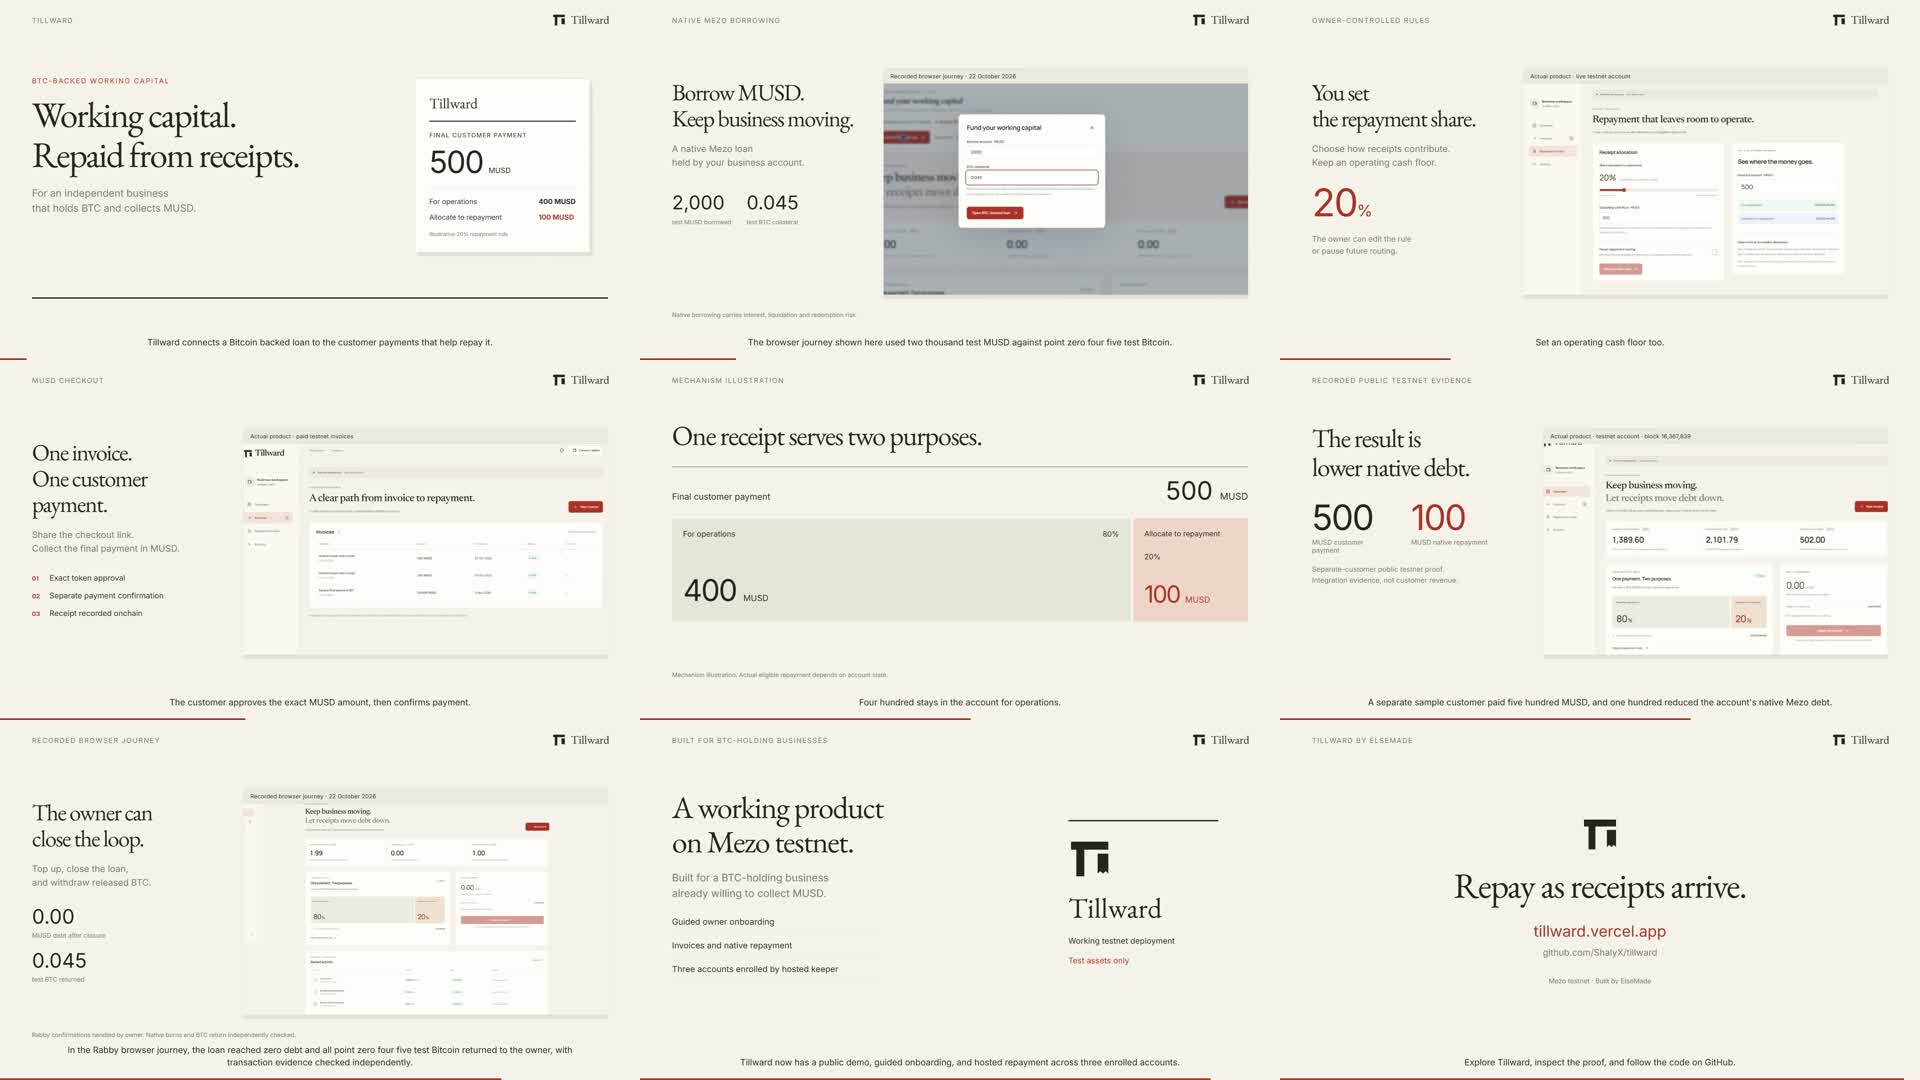
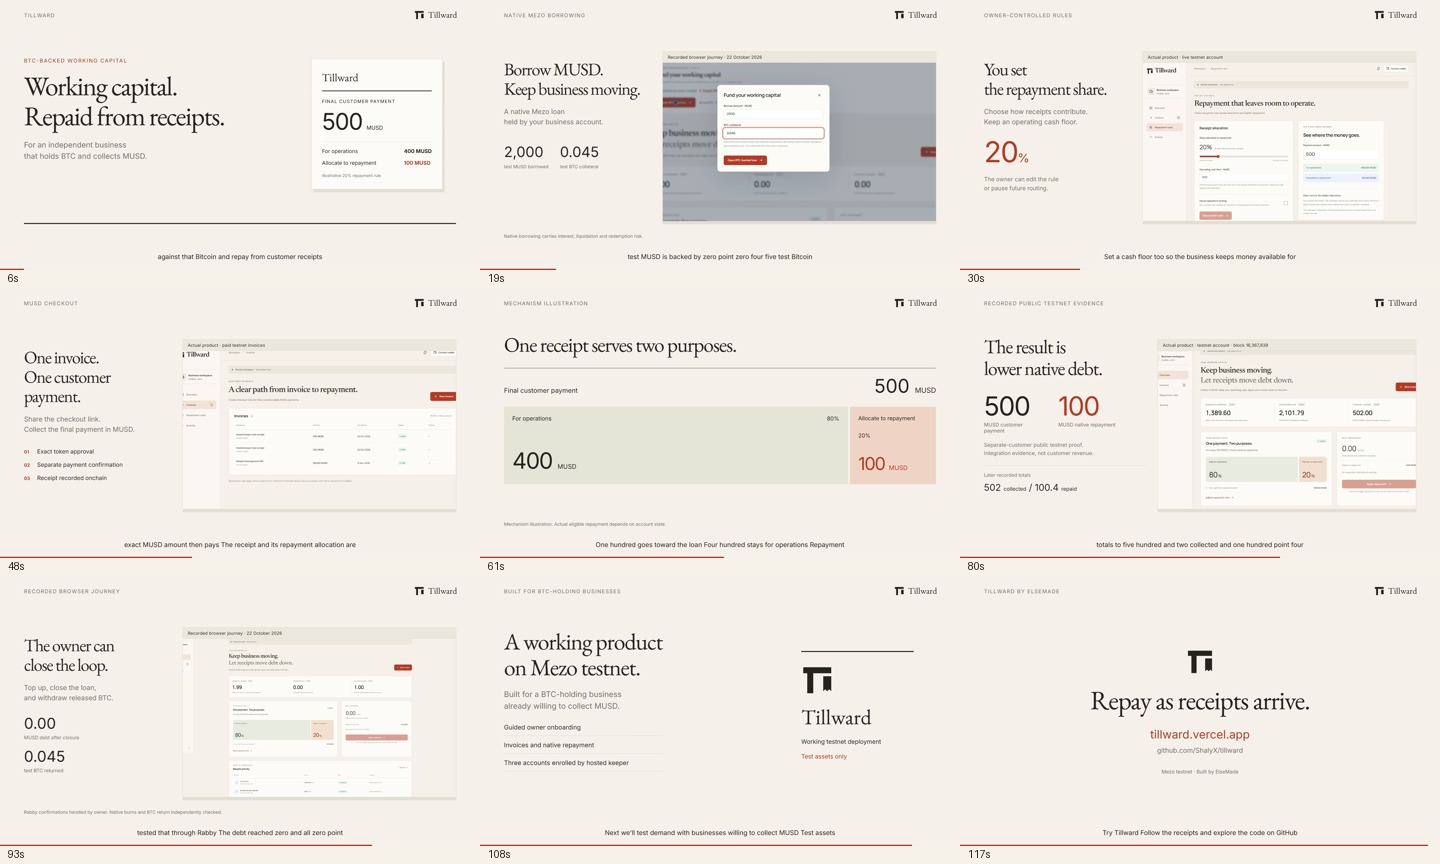
Replace pitch narration with approved Emma neural voice

diff --git a/public/pitch.html b/public/pitch.html
@@ -18,8 +18,8 @@
   <p class="eyebrow">Mezo Buildathon · Public testnet</p>
   <h1>BTC-backed working capital.<br>Repay as receipts arrive.</h1>
   <p class="intro">Borrow MUSD for the business. Choose how much of each customer receipt goes toward the loan, and keep an operating cash floor.</p>
-  <video controls playsinline preload="metadata" poster="/media/demo-poster.png" aria-label="Tillward two-minute pitch"><source src="/media/tillward-pitch.mp4" type="video/mp4"><track kind="captions" src="/media/pitch.vtt" srclang="en" label="English">Your browser does not support embedded video. <a href="https://github.com/ShalyX/tillward/releases/download/v0.1.0/demo.mp4">Download the pitch.</a></video>
-  <nav class="links" aria-label="Submission materials"><a class="primary" href="/">Open Tillward</a><a href="/?account=0x5B4b9C9AD2E5c6Ef55A4186ad82580B61A67c6C5">Read the real business</a><a href="https://github.com/ShalyX/tillward/releases/download/v0.1.0/deck.pdf">Download the deck</a><a href="https://github.com/ShalyX/tillward/releases/tag/v0.1.0">All release files</a></nav>
+  <video controls playsinline preload="metadata" poster="/media/demo-poster.png" aria-label="Tillward two-minute pitch"><source src="/media/tillward-pitch.mp4?v=emma-1" type="video/mp4"><track kind="captions" src="/media/pitch.vtt?v=emma-1" srclang="en" label="English">Your browser does not support embedded video. <a href="https://github.com/ShalyX/tillward/releases/download/v0.1.1/demo.mp4">Download the pitch.</a></video>
+  <nav class="links" aria-label="Submission materials"><a class="primary" href="/">Open Tillward</a><a href="/?account=0x5B4b9C9AD2E5c6Ef55A4186ad82580B61A67c6C5">Read the real business</a><a href="https://github.com/ShalyX/tillward/releases/download/v0.1.1/deck.pdf">Download the deck</a><a href="https://github.com/ShalyX/tillward/releases/tag/v0.1.1">All release files</a></nav>
   <section class="notes"><p>The pitch uses actual product captures and recorded testnet transactions. Illustrative numbers are labeled. The recorded original receipt was 500 MUSD, with 100 MUSD applied to native Mezo debt. Later recorded totals reached 502 MUSD collected and 100.4 MUSD repaid.</p><p>These are integration proofs funded with test assets. They do not represent customer revenue or adoption. Native collateral remains subject to liquidation and redemption. Tillward has no mainnet deployment or independent security audit.</p><p>The public demo needs no login. Its default workspace is illustrative. The real business link reads onchain state without a wallet, with explicit retry states for RPC failures. Owner actions still require the owning wallet.</p></section>
   <footer><span>Built by ElseMade</span><a href="https://x.com/shalyx_04">Shaly · @shalyx_04</a></footer>
 </main></body></html>

diff --git a/submission/pitch-script.md b/submission/pitch-script.md
@@ -1,37 +1,39 @@
 # Tillward two-minute pitch
 
+Narrator: Emma neural voice. Approved 26 October 2026.
+
 ## 000–010s · purpose
 
-A small business can hold Bitcoin and still need working capital. Tillward connects a Bitcoin backed loan to the customer payments that help repay it.
+Your business holds Bitcoin, but needs working capital. With Tillward, you borrow against that Bitcoin and repay from customer receipts.
 
 ## 010–025s · borrow
 
-The owner creates a business account, supplies Bitcoin collateral, and borrows M U S D through Mezo. The browser journey shown here used two thousand test M U S D against point zero four five test Bitcoin.
+Create a business account and borrow MUSD through Mezo. Here, two thousand test MUSD is backed by zero point zero four five test Bitcoin.
 
 ## 025–039s · rule
 
-Next, choose the share of each final customer payment to allocate toward the loan. Set an operating cash floor too. The business can keep money available for its day to day expenses.
+You choose how much of each customer payment goes toward the loan. Set a cash floor too, so the business keeps money available for everyday expenses.
 
 ## 039–054s · invoice
 
-Create a final payment invoice and share its link. The customer approves the exact M U S D amount, then confirms payment. Tillward records the receipt and its repayment allocation inside the business account.
+Create an invoice and share the payment link. Your customer approves the exact MUSD amount, then pays. The receipt and its repayment allocation are recorded in your business account.
 
 ## 054–069s · split
 
-With a twenty percent rule, a five hundred M U S D receipt allocates one hundred toward repayment. Four hundred stays in the account for operations. Settlement also respects the cash floor and native minimum debt.
+Take a five hundred MUSD payment with a twenty percent repayment rule. One hundred goes toward the loan. Four hundred stays for operations. Repayment checks your cash floor and Mezo's minimum debt.
 
 ## 069–086s · proof
 
-That repayment path is proven on public testnet. A separate sample customer paid five hundred M U S D, and one hundred reduced the account's native Mezo debt. Later hosted settlements brought recorded totals to five hundred two collected and one hundred point four repaid.
+Here's that flow on public testnet. A separate customer wallet paid five hundred MUSD. One hundred reduced the Mezo loan. Later payments brought the totals to five hundred and two collected, and one hundred point four repaid.
 
 ## 086–101s · exit
 
-The owner can inspect activity, top up funds, and close the loan. In the Rabby browser journey, the loan reached zero debt and all point zero four five test Bitcoin returned to the owner, with transaction evidence checked independently.
+Top up the account when you're ready to close the loan. We tested that through Rabby. The debt reached zero, and all zero point zero four five test Bitcoin returned to the owner.
 
 ## 101–114s · scope
 
-Tillward now has a public demo, guided onboarding, and hosted repayment across three enrolled accounts. The next step is testing demand with businesses willing to collect M U S D. This release uses test assets.
+The public demo includes onboarding, invoices, and repayment across three test accounts. Next, we'll test demand with businesses willing to collect MUSD. Test assets only.
 
 ## 114–120s · close
 
-Explore Tillward, inspect the proof, and follow the code on GitHub.
+Try Tillward. Follow the receipts, and explore the code on GitHub.

diff --git a/docs/PROJECT.md b/docs/PROJECT.md
@@ -8,7 +8,7 @@ Public app: https://tillward.vercel.app . Public repository: https://github.com/
 
 Verified for this release: public no-login browser loads example and actual account, paid invoices and repayment rules; actual read at block 16,367,839 shows 502 receipts / 100.40 repaid. Desktop 1440 and mobile 390 layouts checked without horizontal overflow. Application tests 21/21, production build and contracts 20/20 with 128 fuzz runs passed. Initial GitHub Actions run 40235217041 succeeded, including dependency audit; local npm audit could not reach the registry during this run.
 
-Materials: submission/answers.md, judge-guide.md, deck.pdf and deck.pptx, plus the completed 120-second, 1920x1080 narrated pitch and English captions. Public pitch: https://tillward.vercel.app/pitch.html . Editable source and downloads are in the v0.1.0 GitHub release. HACKATHON.md records official requirements; SCORECARD.md maps evidence to the rubric.
+Materials: submission/answers.md, judge-guide.md, deck.pdf and deck.pptx, plus the completed 120-second, 1920x1080 narrated pitch and English captions. Public pitch: https://tillward.vercel.app/pitch.html . Editable source and downloads are in the v0.1.1 GitHub release. HACKATHON.md records official requirements; SCORECARD.md maps evidence to the rubric.
 
 Owner-supplied public identity: team Shaly, member Shaly, https://x.com/shalyx_04 . ElseMade is the product builder credit.
 

diff --git a/submission/video-source.md b/submission/video-source.md
@@ -4,9 +4,9 @@
 
 The source uses the approved receipt-counter identity, fresh public product screenshots and labeled historical Mezo testnet proof. It does not simulate new chain writes. The receipt allocation scene is a mechanism illustration.
 
-Narration is synthesized locally with Windows Microsoft Zira Desktop. Nine separate WAV clips sit on the timeline, with burned-in captions and a matching WebVTT file in the published release. No external voice service was used. Replace the WAV clips to re-record narration, retaining the scene timings or updating the composition attributes.
+Narration uses the user-approved Microsoft Emma Multilingual Neural voice, generated through Edge TTS without paid credits. Nine frozen WAV clips sit on the timeline, with captions aligned to native speech boundaries and a matching WebVTT file. The revised script uses shorter spoken sentences. `narration-emma.json` records text, timing and word boundaries; no provider credential is included. The picture timeline remains 120 seconds.
 
-Node.js 22+ and FFmpeg are required. The CLI is pinned to HyperFrames 0.8.199 in package.json commands.
+Node.js 22+ and FFmpeg are required. The CLI is pinned to HyperFrames 0.8.201 in package.json commands.
 
 ```sh
 npm run check
